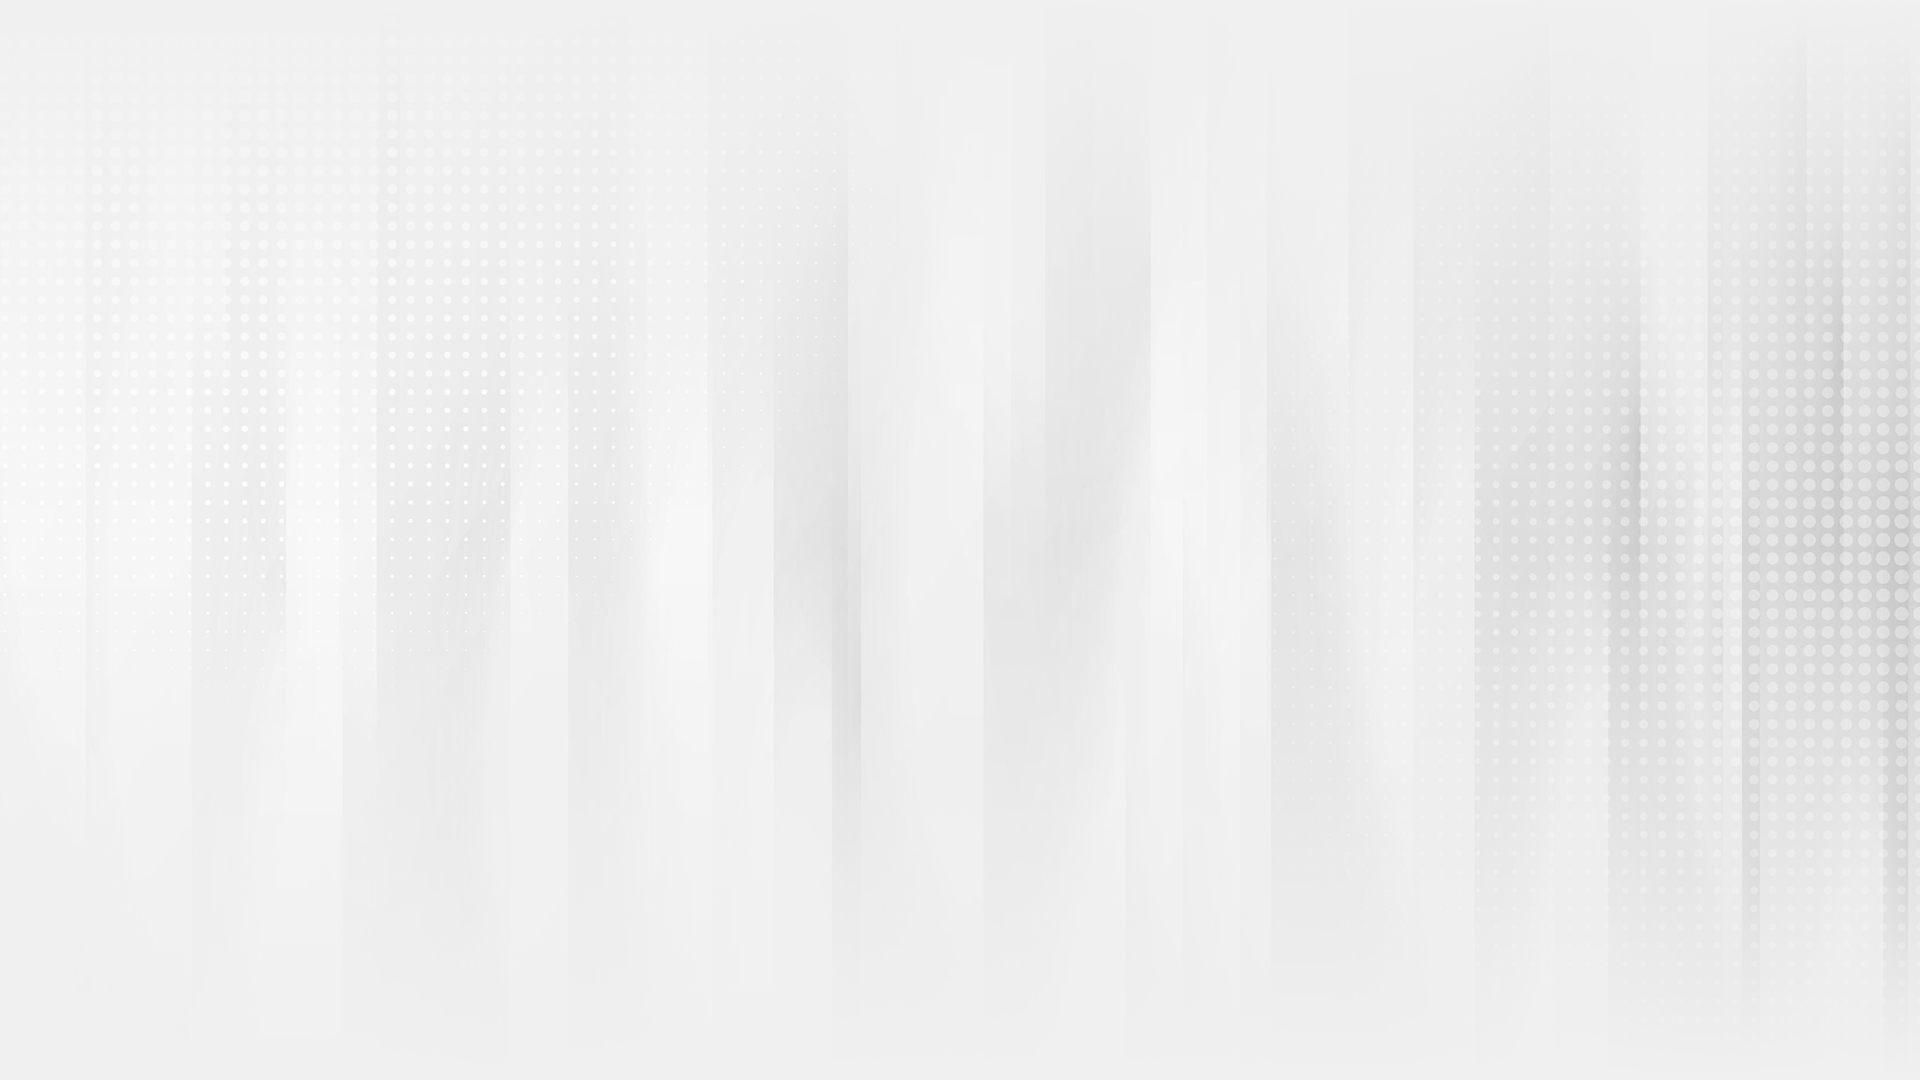
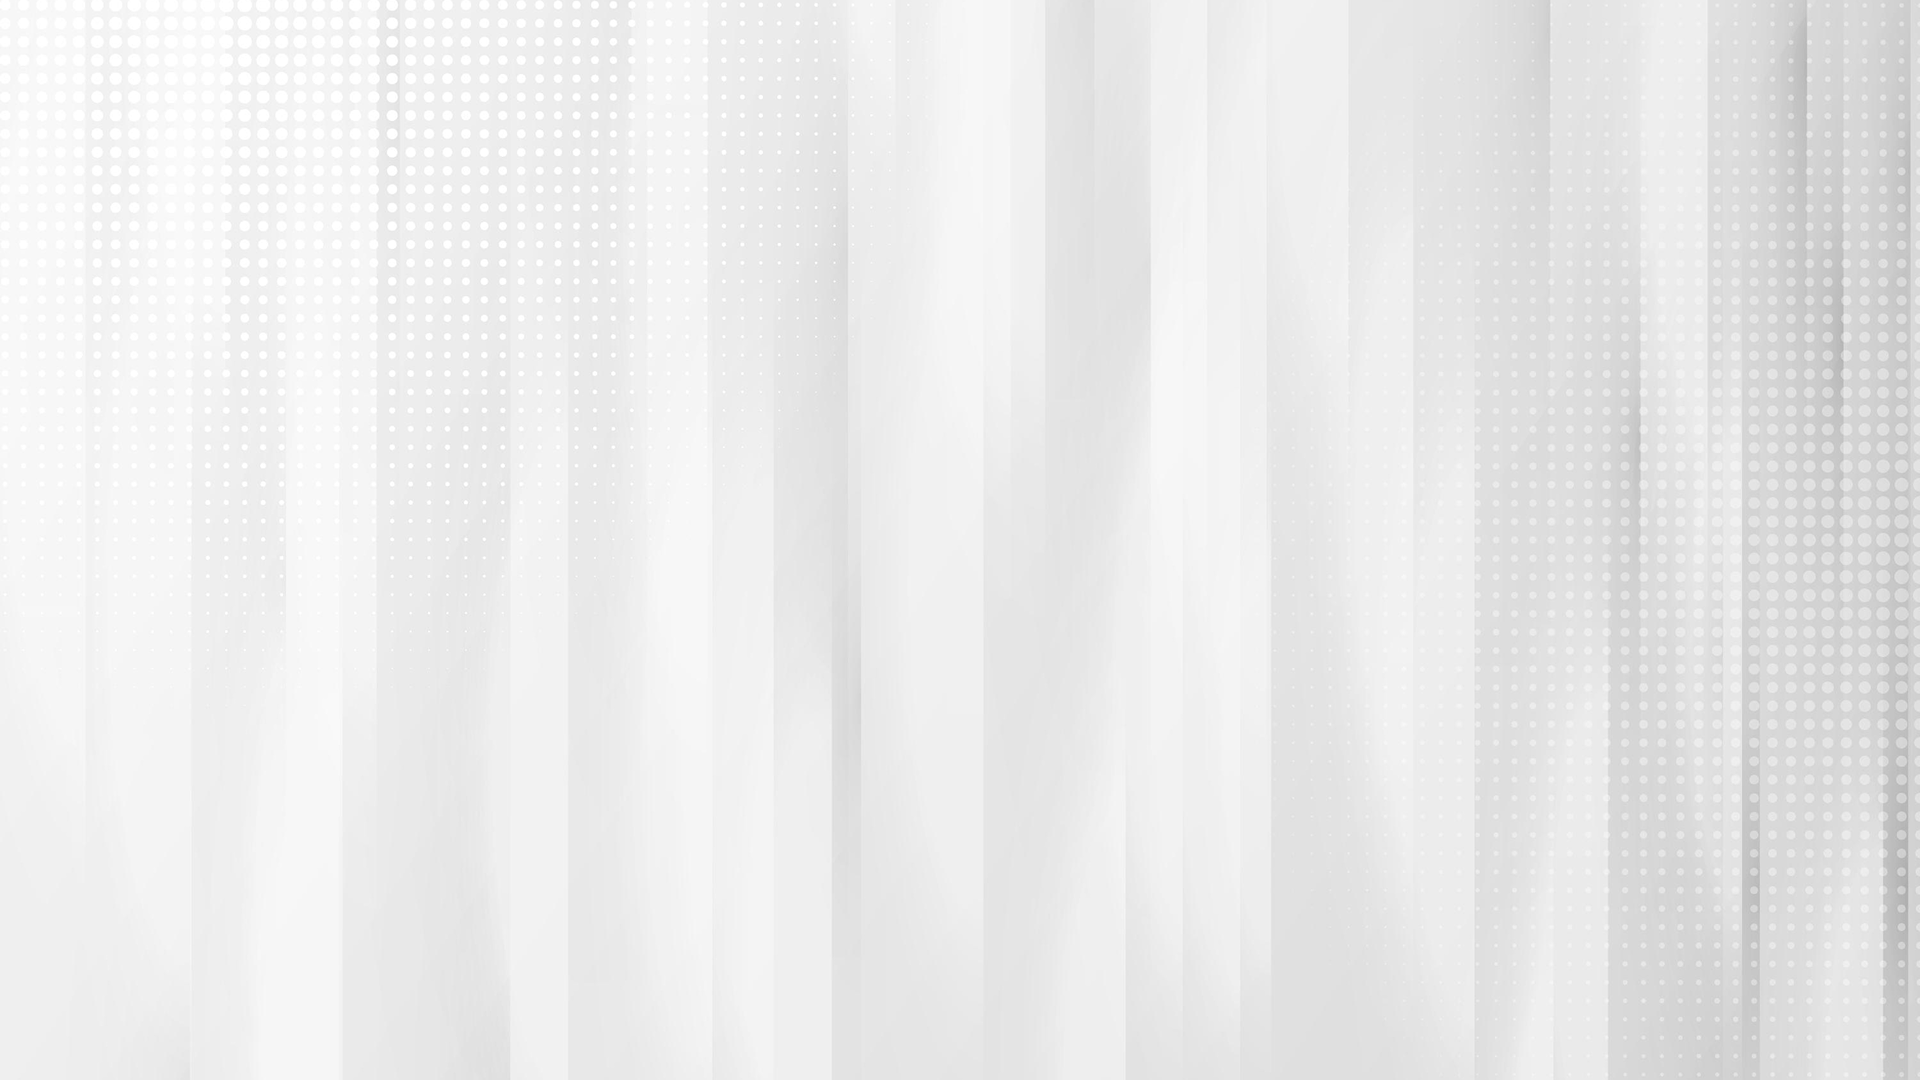
bug fixed for smooth animation transition

diff --git a/src/components/FAQSection.tsx b/src/components/FAQSection.tsx
@@ -25,7 +25,7 @@ const FAQSection: React.FC = () => {
       {/* Background */}
       <div className="absolute inset-0 z-0 overflow-hidden">
         <div
-          className="w-full h-full bg-cover bg-no-repeat bg-center scale-x-[-1]"
+          className="w-full h-full bg-cover bg-no-repeat bg-center"
           style={{ backgroundImage: `url(${faqBg})` }}
         />
         <div className="absolute inset-0 bg-gradient-to-b from-[#F0F0F0] via-[#F0F0F0]/0 to-[#F0F0F0] z-0 pointer-events-none" />
@@ -72,7 +72,7 @@ const FAQSection: React.FC = () => {
                   {/* Question Button */}
                   <button
                     onClick={() => handleToggle(index)}
-                    className={`w-full px-4 py-5 text-left flex justify-between items-center gap-4 font-sans font-bold text-body1 transition-all duration-500 ease-in-out rounded-2xl cursor-pointer ${
+                    className={`w-full px-4 py-5 text-left flex justify-between items-center gap-4 font-sans font-bold text-body1 transition-all duration-300 ease-in-out rounded-2xl cursor-pointer ${
                       expanded
                         ? "text-white"
                         : "text-[#161616] hover:text-[#B5442C]"
@@ -80,7 +80,7 @@ const FAQSection: React.FC = () => {
                   >
                     <span className="flex-1 text-left">{faq.question}</span>
                     <span
-                      className={`flex-shrink-0 w-6 h-6 flex items-center justify-center rounded-full transition-all duration-500 ease-in-out transform ${
+                      className={`flex-shrink-0 w-6 h-6 flex items-center justify-center rounded-full transition-all duration-300 ease-in-out transform ${
                         expanded
                           ? "bg-white text-[#B5442C] rotate-180"
                           : "bg-[#f4d6ce] text-[#B5442C] rotate-0"
@@ -98,22 +98,24 @@ const FAQSection: React.FC = () => {
                     </span>
                   </button>
 
-                  {/* Answer Content */}
+                  {/* Answer Content - Fixed smooth animation */}
                   <div
-                    className={`transition-all duration-500 ease-in-out overflow-hidden ${
-                      expanded ? "max-h-96 opacity-100" : "max-h-0 opacity-0"
+                    className={`grid transition-all duration-500 ease-in-out ${
+                      expanded ? "grid-rows-[1fr]" : "grid-rows-[0fr]"
                     }`}
                   >
-                    <div className="px-4 pb-5">
-                      <p
-                        className={`font-sans font-normal text-left leading-relaxed transition-all duration-300 delay-100 ${
-                          expanded
-                            ? "text-white translate-y-0"
-                            : "text-[#161616] translate-y-2"
-                        }`}
-                      >
-                        {faq.answer}
-                      </p>
+                    <div className="overflow-hidden">
+                      <div className="px-4 pb-5">
+                        <p
+                          className={`font-sans font-normal text-left leading-relaxed transition-all duration-300 ${
+                            expanded
+                              ? "text-white opacity-100 translate-y-0"
+                              : "text-[#161616] opacity-0 translate-y-2"
+                          }`}
+                        >
+                          {faq.answer}
+                        </p>
+                      </div>
                     </div>
                   </div>
                 </div>
